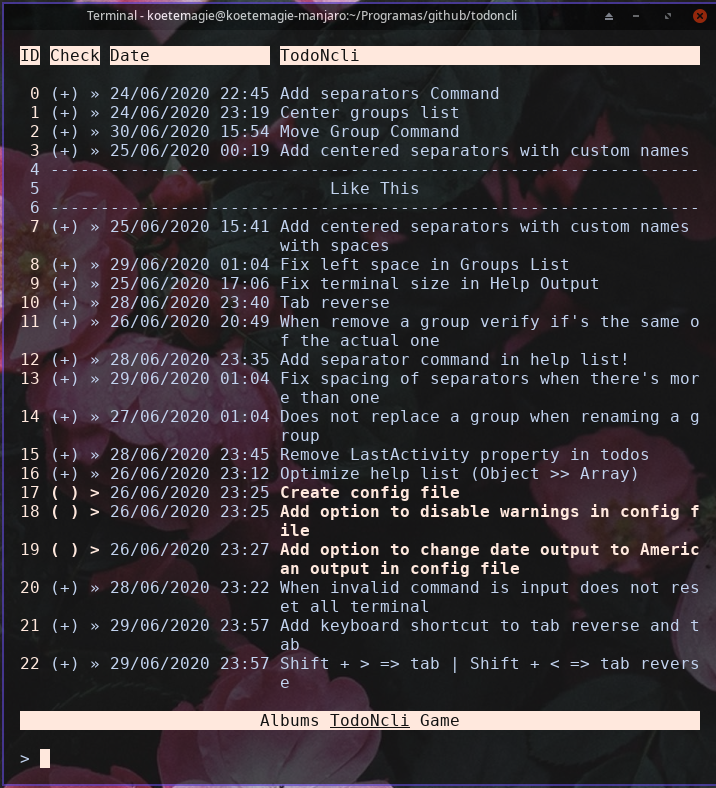
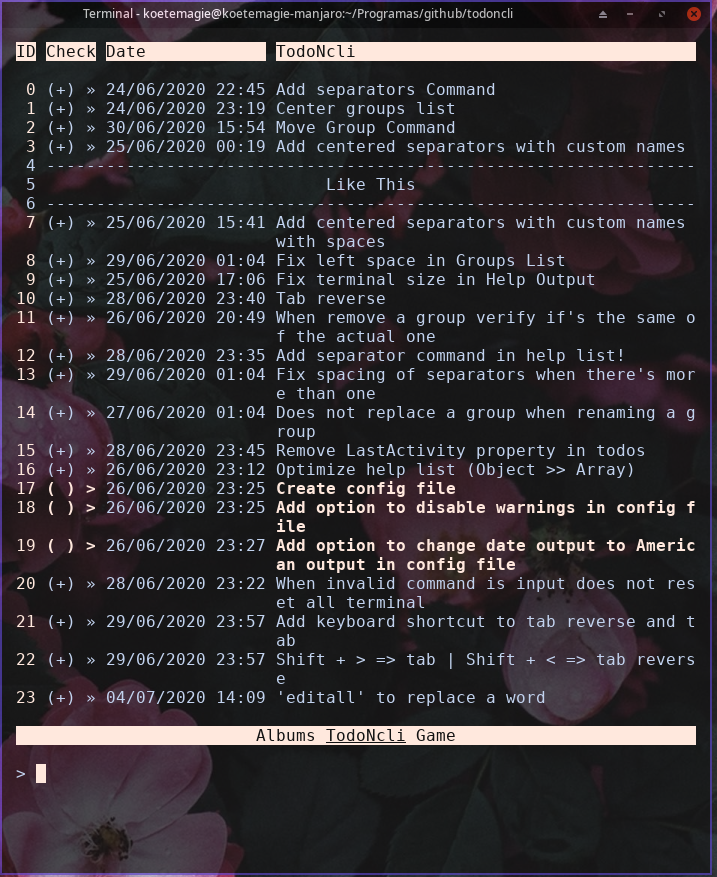
Added editall command

diff --git a/todoncli.js b/todoncli.js
@@ -17,7 +17,7 @@ const colors = {
   bwhite: m => `\x1b[1m${m + colors.res}`,
   inverse: m => `\x1b[7m${m + colors.res}`,
   underline: m => `\x1b[4m${m + colors.res}`,
-  strike: m => `\x1b[9m${m + colors.res}`
+  strike: m => `\x1b[9m${m + colors.res}`,
 }
 
 Array.prototype.move = function move(from, to) {
@@ -221,6 +221,9 @@ const todoncli = {
         'Show previous group.',
         'tr',
       ],
+      [ ['editall', 'ea'],
+        'Replace a word or phrase to another.',
+        'ea "book" "new book"'],
       [ ['tab', 't'],
         'Show next group.',
         'tab',
@@ -522,6 +525,9 @@ const todoncli = {
     // groups
     this.groupsList();
   },
+  promptNothing: function () {
+    rl.question(colors.white('<') + ' ', A => this.ask());
+  },
   promptQuestion: function () {
     rl.question(colors.white('>') + ' ', ANSWER => {
       let [answer, ...args] = ANSWER.split(' ');
@@ -536,18 +542,26 @@ const todoncli = {
     // 3 = license
     //   = todos of the group
     switch (TYPE) {
-      case 1: this.help();
+      case 1:
+        this.help();
         break;
-      case 2: this.protec();
+      case 2:
+        this.protec();
         break;
-      case 3: this.license();
+      case 3:
+        this.license();
         break;
-      default: this.todos();
+      default:
+        this.todos();
     }
   
     // test timed todos to update their times
     itemsParse.updateTimeds();
-    this.promptQuestion();
+    
+    if (!TYPE)
+      this.promptQuestion();
+    else
+      this.promptNothing();
   },
   restartPrompt: function (answer, args) {
     if (CUR_COLUMNS !== process.stdout.columns) {
@@ -627,7 +641,10 @@ const todoncli = {
           , false, 3000);
         else groups.remCheckeds();
         break;
-  
+      case 'ea':
+      case 'editall':
+        groups.editAll(args);
+        break
       case 'tab':
       case 't':
         groups.tab();
@@ -677,17 +694,6 @@ const todoncli = {
         items.get(args);
         return this.restartPrompt(answer, args);
         break;
-      case 'h':
-      case 'help':
-        TYPE = 1;
-        break;
-      case 'protec':
-        TYPE = 2;
-        break;
-      case 'l':
-      case 'license':
-        TYPE = 3;
-        break;
       case 'ed':
       case 'edit':
         items.edit(args);
@@ -701,9 +707,23 @@ const todoncli = {
       case 'addtime':
         items.addTimed(args);
         break;
-  
+      //
+      // outputs
+      //
+      case 'h':
+      case 'help':
+        TYPE = 1;
+        break;
+      case 'protec':
+        TYPE = 2;
+        break;
+      case 'l':
+      case 'license':
+        TYPE = 3;
+        break;
+
       // 
-      // program
+      // todoncli
       // 
       case 'rs': 
       case 'restart':
@@ -731,7 +751,7 @@ const todoncli = {
 //
 // Group Functions
 //
-readline.emitKeypressEvents(process.stdin);
+
 // shortcut
 process.stdin.on('keypress', (ch, key) => {
   // alt + > === tab
@@ -745,6 +765,38 @@ process.stdin.on('keypress', (ch, key) => {
 });
 
 const groups = {
+
+  restoreMsg: 'Restoring todos with backup... ',
+
+  // search by letters and replace them
+  editAll: async function (args) {
+    const BAK_TODOS = TODOS;
+
+    const text = args.join(' ');
+    const count = ((text.split('')).filter(x => x === '"')).length;
+
+    try {
+      // INPUT: 'ea "KOP" "LEL"'
+      if (count === 4 && args.length > 1) {
+        args = (args.join(' ')).split('" "');
+        args[0] = args[0].replace(/^"|"$/g, '');
+        args[1] = args[1].replace(/^"|"$/g, '');
+      }
+
+      // INPUT: 'ea lol lel'
+      const [REPLACE, NEW] = [args[0], args[1]];
+
+      // for in each todo to change the patt
+      for (let i = 0; i < CUR_GROUP.length; i++)
+        CUR_GROUP[i].text = (CUR_GROUP[i].text).replace(REPLACE, NEW);
+
+    }
+    catch (e) {
+      TODOS = BAK_TODOS;
+      await todoncli.alert(this.restoreMsg + e.message, 2000);
+
+    }
+  },
   // previous updateGroups
   update: all => {
     GROUPS = Object.keys(TODOS);

diff --git a/README.md b/README.md
@@ -18,7 +18,7 @@ Implementation of a Todo List in Node.js. Manage your todos directly in the term
 - Download this repository. Or use terminal with git: `git clone https://github.com/Passok11/todo-list-node-cli.git`;
 - Open the repository folder locally. Or use terminal: `cd todoncli`;
 - If you are using Windows, open **app.vbs**. Or in the terminal run todoncli using any of these commands: `node .`, `node todoncli.js`;
-- You can make an alias in Linux to open it faster. Example: `echo 'alias nd="cd ~/TODONCLIFOLDER/ && node todoncli.js"'`.
+- You can make an alias in Linux to open it faster. Example: `echo 'alias nd="cd ~/TODONCLIFOLDER/ && node todoncli.js"' >> ~/.bashrc`, then `. ~/.bashrc`.
 
 ### Windows:
 
@@ -40,6 +40,7 @@ If you're using Windows 7 or lower. I recommend you use another terminal, such a
 * Prettier terminal.
 * Now you can switch the groups easily with the shorcut: `SHIFT` + `left arrow`; `SHIFT` + `right arrow`.
 * Now you can move groups.
+* Replace a word or phrase to another.
 
 ## 🖨 Command Cheat
 
@@ -69,6 +70,7 @@ If you're using Windows 7 or lower. I recommend you use another terminal, such a
 * `at` or `addtime` - Add a todo which will loop in a certain time.
 * `as` or `addseparator` - Add a separator which will separe todos in a group.
 * `mg` or `movegroup` - Move a group to another.
+* `ea` or `editall` - Replace a word or phrase to another.
 
 ## To-do
 
@@ -91,6 +93,9 @@ If you're using Windows 7 or lower. I recommend you use another terminal, such a
 * `as l -5`
 * `as -5 +`
 * `as # -5`
+
+* Fast replace.
+* `ea this new`
 
 
 ## 💻 Usage
